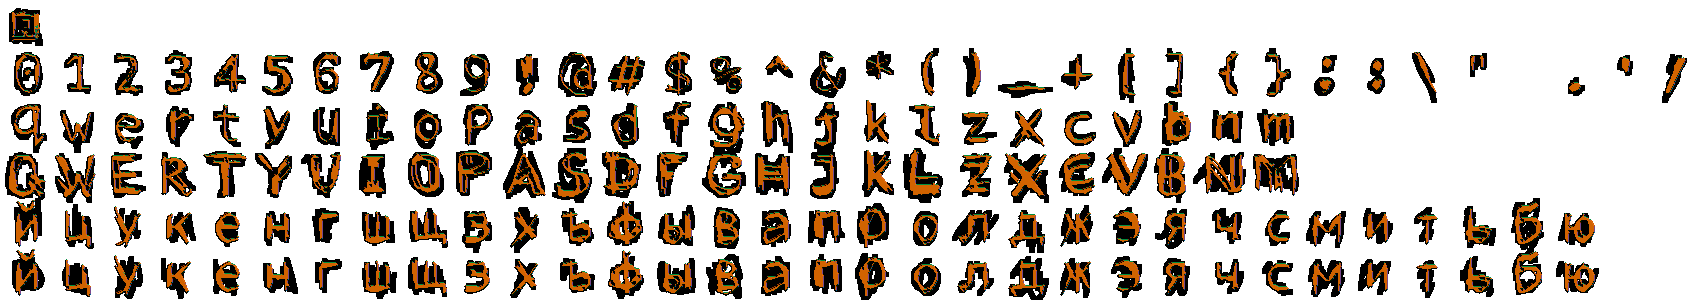
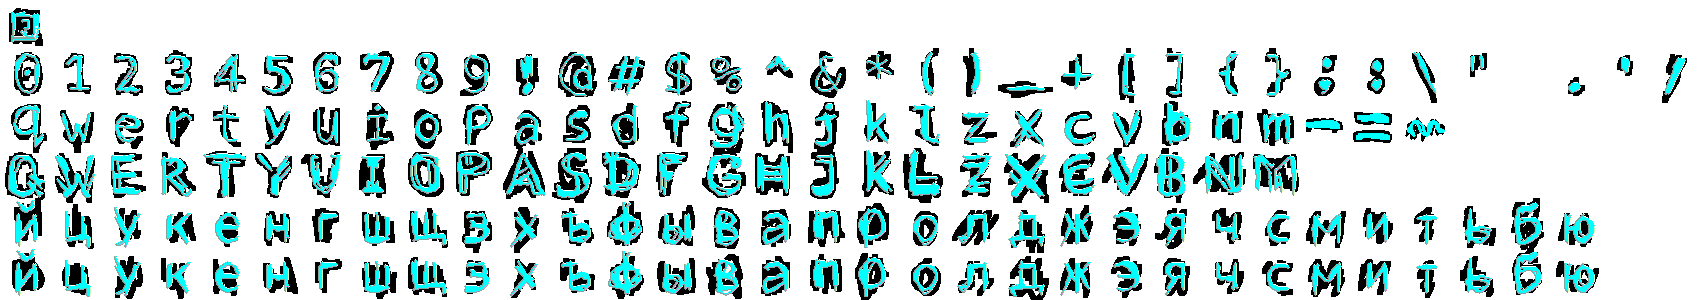
Removed ttf and replaces to new font

diff --git a/src/render/render.cpp b/src/render/render.cpp
@@ -1,67 +1,3 @@
 #include "render.h"
 
 #include "ycore.h"
-// ---------------------------------------------------------------------
-// RenderTextBlock
-
-RenderAbsoluteTextBlock::RenderAbsoluteTextBlock(const CoordXY &p0, const std::wstring &sText, int nPositionZ)
-: RenderObject(nPositionZ) {
-    m_coordCenter = p0;
-    m_sText = sText;
-    m_sUpdateText = m_sText;
-    // m_pFont = TTF_OpenFont("./res/fonts/amatic/AmaticSC-Regular.ttf", 42);
-    m_pFont = TTF_OpenFont("./res/fonts/roboto/Roboto-Black.ttf", 16);
-    m_color = {255, 255, 255};
-    if (!m_pFont) {
-        printf("TTF_OpenFont: %s\n", TTF_GetError());
-        // handle error
-    }
-
-    // SDL_Rect currentFrame;
-}
-
-void RenderAbsoluteTextBlock::modify(const GameState& state, IRenderWindow* pRenderWindow) {
-    // nothing i think
-    if (m_sUpdateText != m_sText) {
-        m_sText = m_sUpdateText;
-    }
-};
-
-bool RenderAbsoluteTextBlock::canDraw(const GameState& state) {
-    return true;
-}
-
-void RenderAbsoluteTextBlock::draw(SDL_Renderer* renderer) {
-    // int w,h;
-    // if (TTF_SizeText(font,"Hello World!",&w,&h)) {
-        // perhaps print the current TTF_GetError(), the string can't be rendered...
-    // } else {
-    //    printf("width=%d height=%d\n",w,h);
-    // }
-
-    SDL_Surface* surfaceMessage = TTF_RenderText_Solid(m_pFont, YCore::ws2s(m_sText).c_str(), m_color);
-     // as TTF_RenderText_Solid could only be used on SDL_Surface then you have to create the surface first
-
-    SDL_Texture* Message = SDL_CreateTextureFromSurface(renderer, surfaceMessage); //now you can convert it into a texture
-    
-    SDL_Rect Message_rect; //create a rect
-    Message_rect.x = m_coordCenter.x();  //controls the rect's x coordinate 
-    Message_rect.y = m_coordCenter.y(); // controls the rect's y coordinte
-    Message_rect.w = surfaceMessage->w; // controls the width of the rect
-    Message_rect.h = surfaceMessage->h; // controls the height of the rect
-
-    // Mind you that (0,0) is on the top left of the window/screen, think a rect as the text's box, that way it would be very simple to understand
-
-    // Now since it's a texture, you have to put RenderCopy in your game loop area, the area where the whole code executes
-
-    SDL_RenderCopy(renderer, Message, NULL, &Message_rect); //you put the renderer's name first, the Message, the crop size(you can ignore this if you don't want to dabble with cropping), and the rect which is the size and coordinate of your texture
-
-    // Don't forget to free your surface and texture
-    SDL_FreeSurface(surfaceMessage);
-    SDL_DestroyTexture(Message);
-};
-
-void RenderAbsoluteTextBlock::updateText(const std::wstring &sNewText) {
-    m_sUpdateText = sNewText;
-}
-

diff --git a/src/controllers/main_controller.cpp b/src/controllers/main_controller.cpp
@@ -321,12 +321,22 @@ bool MainController::loadGameDataWithProgressBar() {
         )
     );
 
+    auto *pAssets = findYService<YAssetsService>();
+
     // text
-    m_pFpsText = new RenderAbsoluteTextBlock(CoordXY(m_pWindow->getWidth() - 270, 20), L"FPS: ...", 5001);
+    m_pFpsText = pAssets->createAsset<YAssetText>(L"font1");
+    m_pFpsText->setOrderZ(5001);
+    m_pFpsText->setAbsolutePosition(true);
+    m_pFpsText->setPosition(m_pWindow->getWidth() - 270, 20);
+    m_pFpsText->setText(L"FPS: ...");
     m_pWindow->getRenderWindow()->addPanelsObject(m_pFpsText);
 
     // coordinates of player
-    m_pCoordText = new RenderAbsoluteTextBlock(CoordXY(m_pWindow->getWidth() - 270, 40), L"x = ? y = ?", 5001);
+    m_pCoordText = pAssets->createAsset<YAssetText>(L"font1");
+    m_pCoordText->setOrderZ(5001);
+    m_pCoordText->setAbsolutePosition(true);
+    m_pCoordText->setPosition(m_pWindow->getWidth() - 270, 50);
+    m_pCoordText->setText(L"x = ? y = ?");
     m_pWindow->getRenderWindow()->addPanelsObject(m_pCoordText);
 
     m_pLoaderController->addToProgressCurrent(1);
@@ -443,8 +453,8 @@ void MainController::drawObjects() {
 void MainController::updatePlayerCoord() {
     const CoordXY &playerCoord = m_pGameState->getAlienShipState()->getPosition();
     std::wstring sCoordPlayer = L"X=" + std::to_wstring(playerCoord.x())
-            + L" Y=" + std::to_wstring(playerCoord.y());
-    m_pCoordText->updateText(sCoordPlayer);
+            + L"\nY=" + std::to_wstring(playerCoord.y());
+    m_pCoordText->setText(sCoordPlayer);
 }
 
 void MainController::startFpsCounting() {
@@ -467,7 +477,7 @@ void MainController::updateFps() {
 }
 
 void MainController::updateFpsValue(int nFps) {
-    m_pFpsText->updateText(L"FPS: ~" + std::to_wstring(nFps));
+    m_pFpsText->setText(L"FPS: ~" + std::to_wstring(nFps));
     std::cout << "FPS: ~" << nFps << std::endl;
 }
 

diff --git a/src/yassets/yasset_text.cpp b/src/yassets/yasset_text.cpp
@@ -30,15 +30,11 @@ void YAssetText::setPosition(int nX, int nY) {
 void YAssetText::setText(const std::wstring& sText) {
     m_sUpdateText = sText;
     m_bUpdatedText = true;
-    YLog::info(TAG, L"m_sUpdateText = " + m_sUpdateText);
+    // YLog::info(TAG, L"m_sUpdateText = " + m_sUpdateText);
 }
 
-RenderObject *YAssetText::getRenderObject() {
-    // TOOD redesign
-    return new RenderAbsoluteTextBlock(
-        CoordXY(m_nX, m_nY),
-        m_sText
-    );
+void YAssetText::setOrderZ(int nOrder) {
+    m_nPositionZ = nOrder;
 }
 
 void YAssetText::modify(const GameState& state, IRenderWindow* pRenderWindow) {
@@ -66,11 +62,19 @@ void YAssetText::draw(SDL_Renderer* renderer) {
     dst.w = m_nFontSize;
     dst.h = m_nFontSize;
 
+    int nPos = 0;
+
     for (int i = 0; i < m_sText.size(); i++) {
         wchar_t c = m_sText[i];
+        if (c == L'\n') {
+            dst.y += m_nFontSize;
+            nPos = 0;
+            continue;
+        }
         findPosition(currentFrame, c);
-        dst.x = i*m_nFontSize + m_nX;
+        dst.x = nPos*m_nFontSize + m_nX;
         SDL_RenderCopy(renderer, m_pTexture, &currentFrame, &dst);
+        nPos++;
     }
 };
 

diff --git a/src/render/render.h b/src/render/render.h
@@ -7,27 +7,3 @@
 #include <vector>
 #include <string>
 #include <iostream>
-
-class RenderAbsoluteTextBlock : public RenderObject {
-
-    public:
-        RenderAbsoluteTextBlock(
-            const CoordXY &p0,
-            const std::wstring &sText,
-            int nPositionZ = 0
-        );
-        virtual void modify(const GameState& state, IRenderWindow* pRenderWindow) override;
-        virtual bool canDraw(const GameState& state) override;
-        virtual void draw(SDL_Renderer* renderer) override;
-        void updateText(const std::wstring &sNewText);
-
-    private:
-        CoordXY m_coordCenter;
-        std::wstring m_sText;
-        std::wstring m_sUpdateText;
-        TTF_Font* m_pFont;
-        SDL_Color m_color;
-
-        SDL_Rect currentFrame;
-};
-

diff --git a/src/yassets/yasset_text.h b/src/yassets/yasset_text.h
@@ -12,9 +12,9 @@ class YAssetText : public YAsset, public RenderObject {
         void setAbsolutePosition(bool bAbsolutePosition);
         void setPosition(int nX, int nY);
         void setText(const std::wstring& sText);
-
+        
         // YAsset
-        virtual RenderObject *getRenderObject() override;
+        virtual void setOrderZ(int nOrder) override;
 
         // RenderObject
         virtual void modify(const GameState& state, IRenderWindow* pRenderWindow) override;

diff --git a/src/controllers/main_controller.h b/src/controllers/main_controller.h
@@ -113,8 +113,8 @@ class MainController {
         SDL_Texture* m_pTexturePlayerPower0;
         std::map<std::wstring, SDL_Texture*> m_mapBuildingsTextures;
 
-        RenderAbsoluteTextBlock *m_pCoordText;
-        RenderAbsoluteTextBlock *m_pFpsText;
+        YAssetText *m_pCoordText;
+        YAssetText *m_pFpsText;
 
         long m_nFpsNumberOfFrames;
         long m_nFpsStartTime;

diff --git a/src/yservices/window_yservice.cpp b/src/yservices/window_yservice.cpp
@@ -33,11 +33,6 @@ bool WindowYService::init() {
         return false;
     }
 
-    if (TTF_Init() == -1) {
-        printf("TTF_Init: %s\n", TTF_GetError());
-        return false;
-    }
-
     // TODO move to sound service    
     if (SDL_Init(SDL_INIT_AUDIO) < 0) {
         printf("Failed to init SDL\n");

diff --git a/src/yservices/yassets_service.h b/src/yservices/yassets_service.h
@@ -15,7 +15,7 @@ class YAsset {
     friend class YAssetsService;
     public:
         YAsset(YAssetsService *pAssetsService);
-        virtual RenderObject *getRenderObject() = 0;
+        virtual void setOrderZ(int nOrder) = 0;
 
     protected:
         YAssetsService *m_pAssetsService;

diff --git a/src/yservices/window_yservice.h b/src/yservices/window_yservice.h
@@ -1,7 +1,7 @@
 #pragma once
 
 #include "yservices.h"
-#include "render.h"
+#include "render_window.h"
 
 // ---------------------------------------------------------------------
 // WindowYService

diff --git a/src/render/render_base.h b/src/render/render_base.h
@@ -58,7 +58,6 @@ class RenderObject {
 
     protected:
         bool m_bDestroyed;
-
-    private:
         int m_nPositionZ;
+       
 };

diff --git a/src/controllers/loader_controller.h b/src/controllers/loader_controller.h
@@ -1,6 +1,5 @@
 #pragma once
 #include <string>
-#include "render.h"
 #include "render_ui.h"
 #include <yasset_text.h>
 

diff --git a/README.md b/README.md
@@ -20,7 +20,6 @@ TODO
 $ sudo apt install cmake g++
 $ sudo apt install libsdl2-dev
 $ sudo apt install libsdl2-image-dev
-$ sudo apt install libsdl2-ttf-dev
 $ sudo apt install libsdl2-mixer-dev
 ```
 
@@ -30,7 +29,6 @@ $ sudo apt install libsdl2-mixer-dev
 % brew install cmake
 % brew install sdl2
 % brew install sdl2_image
-% brew install sdl2_ttf
 % brew install sdl2_mixer
 ```
 
